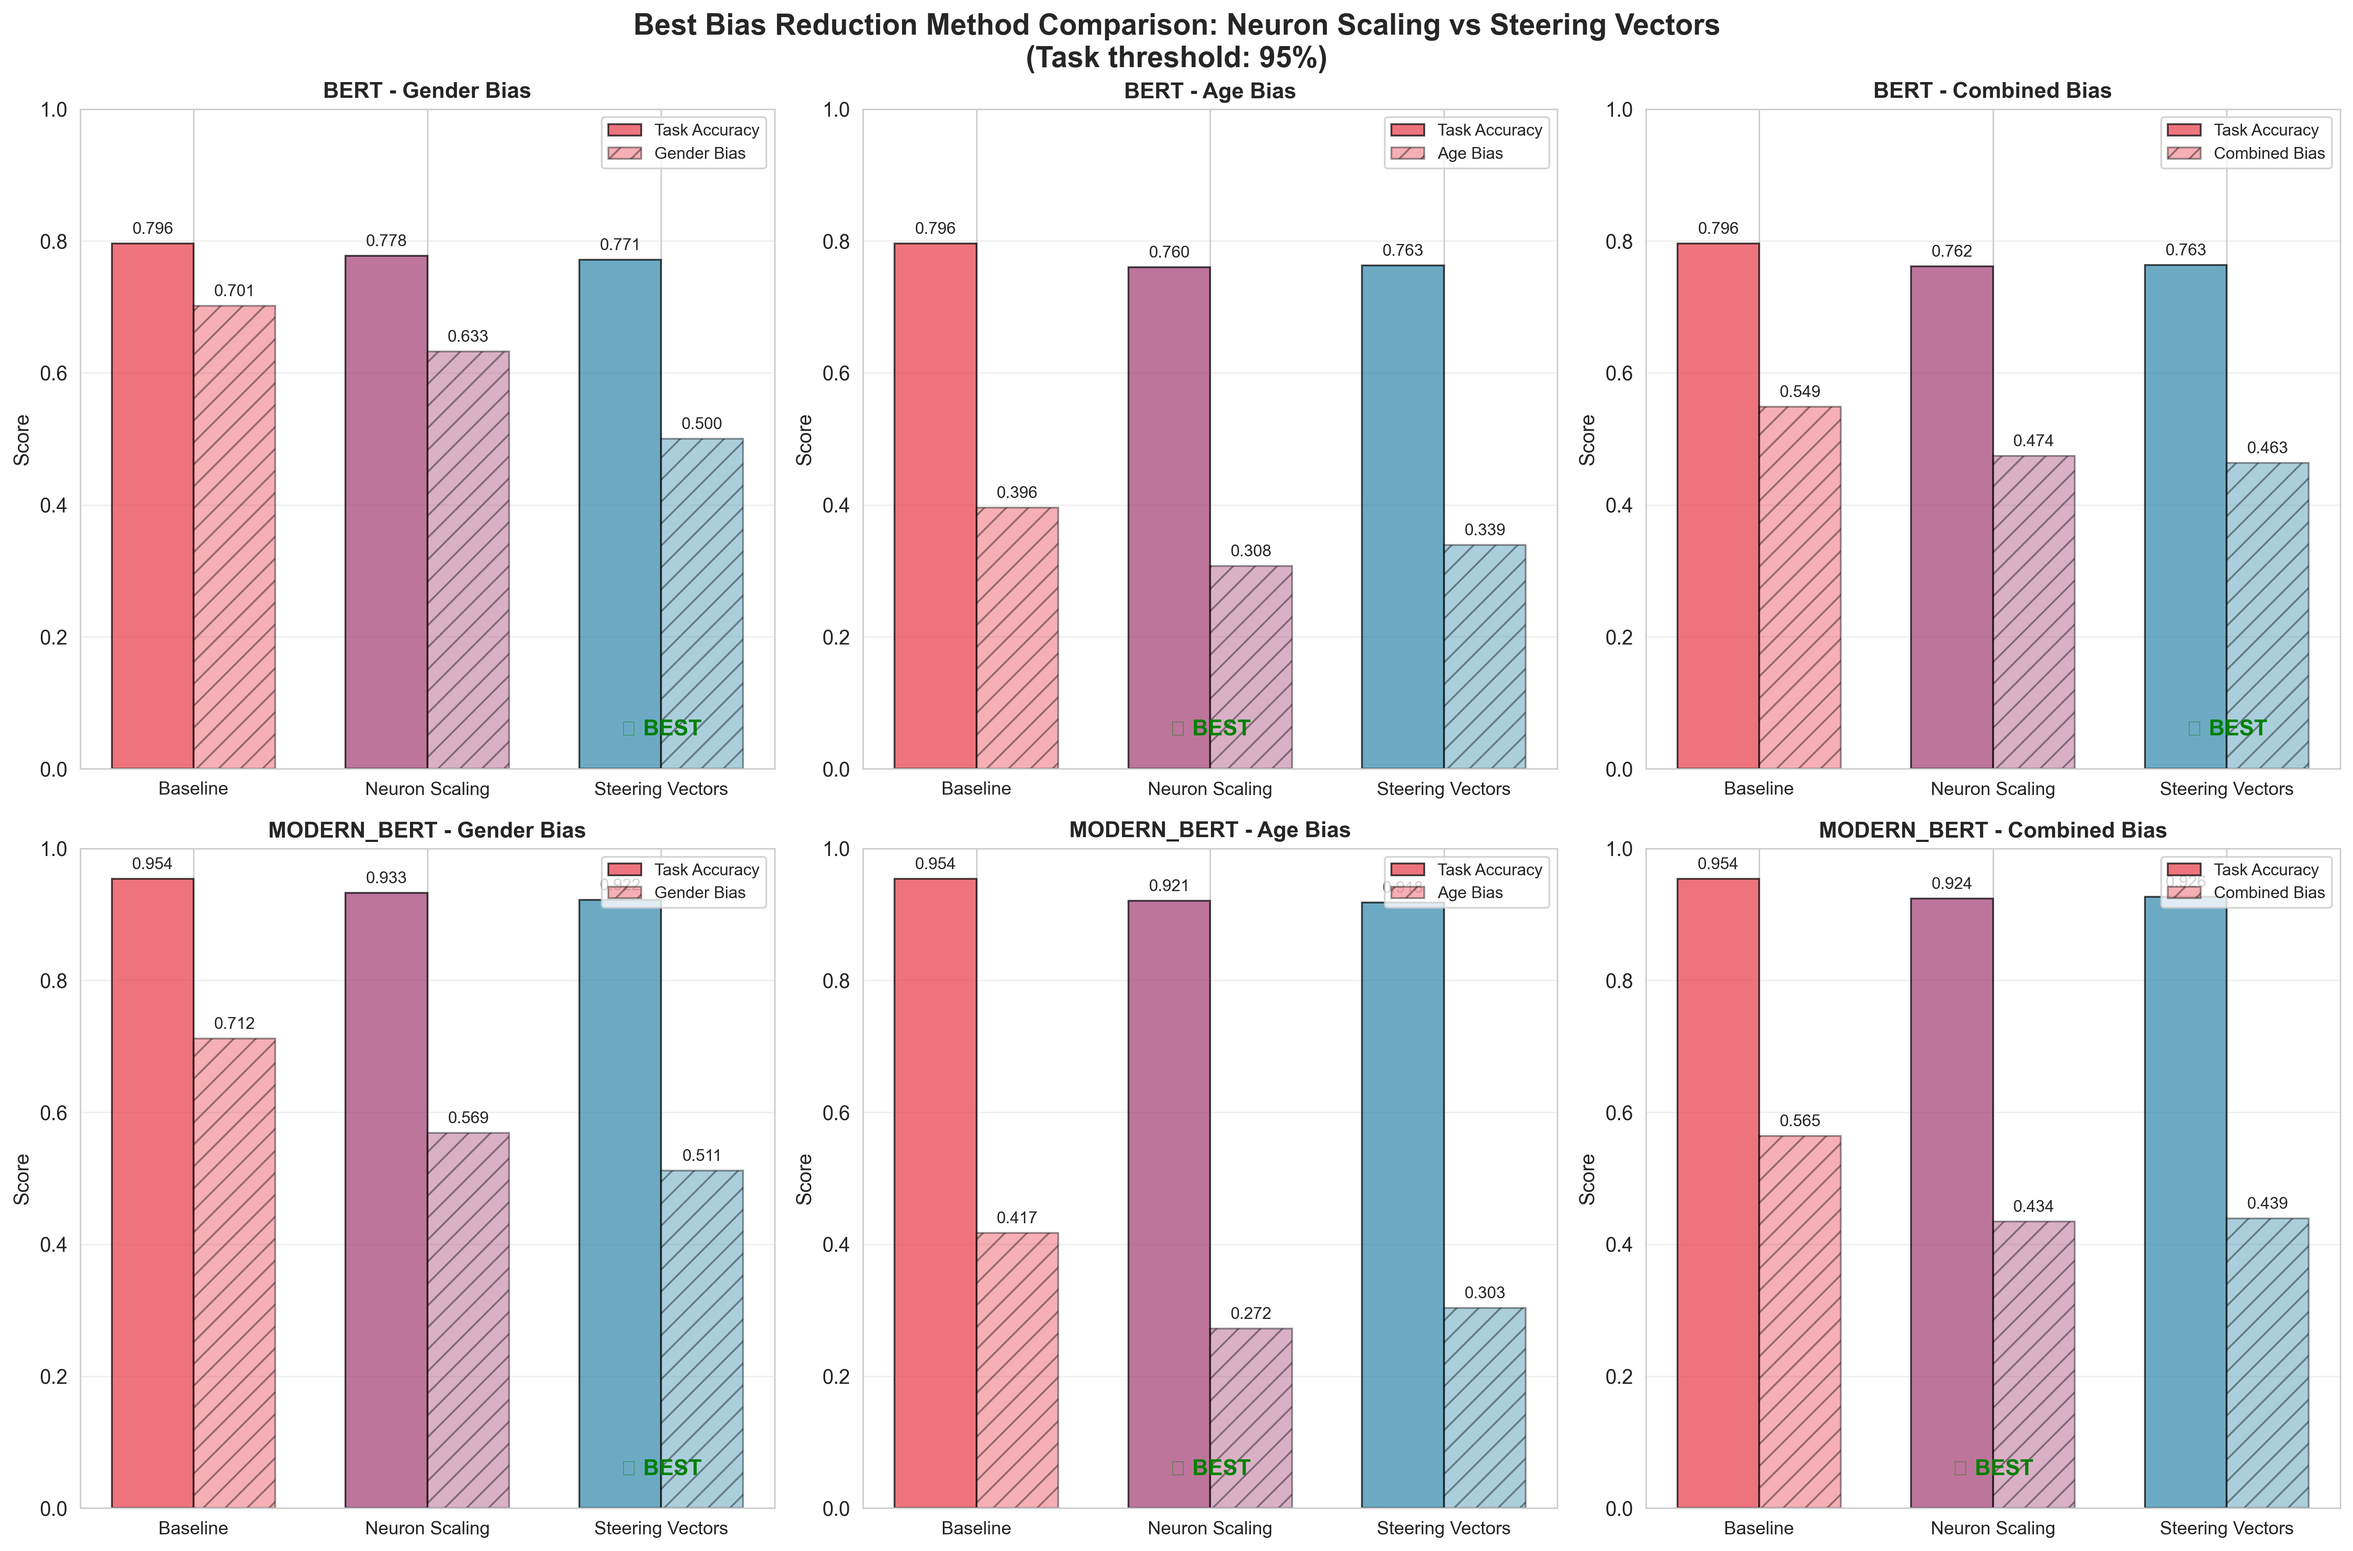
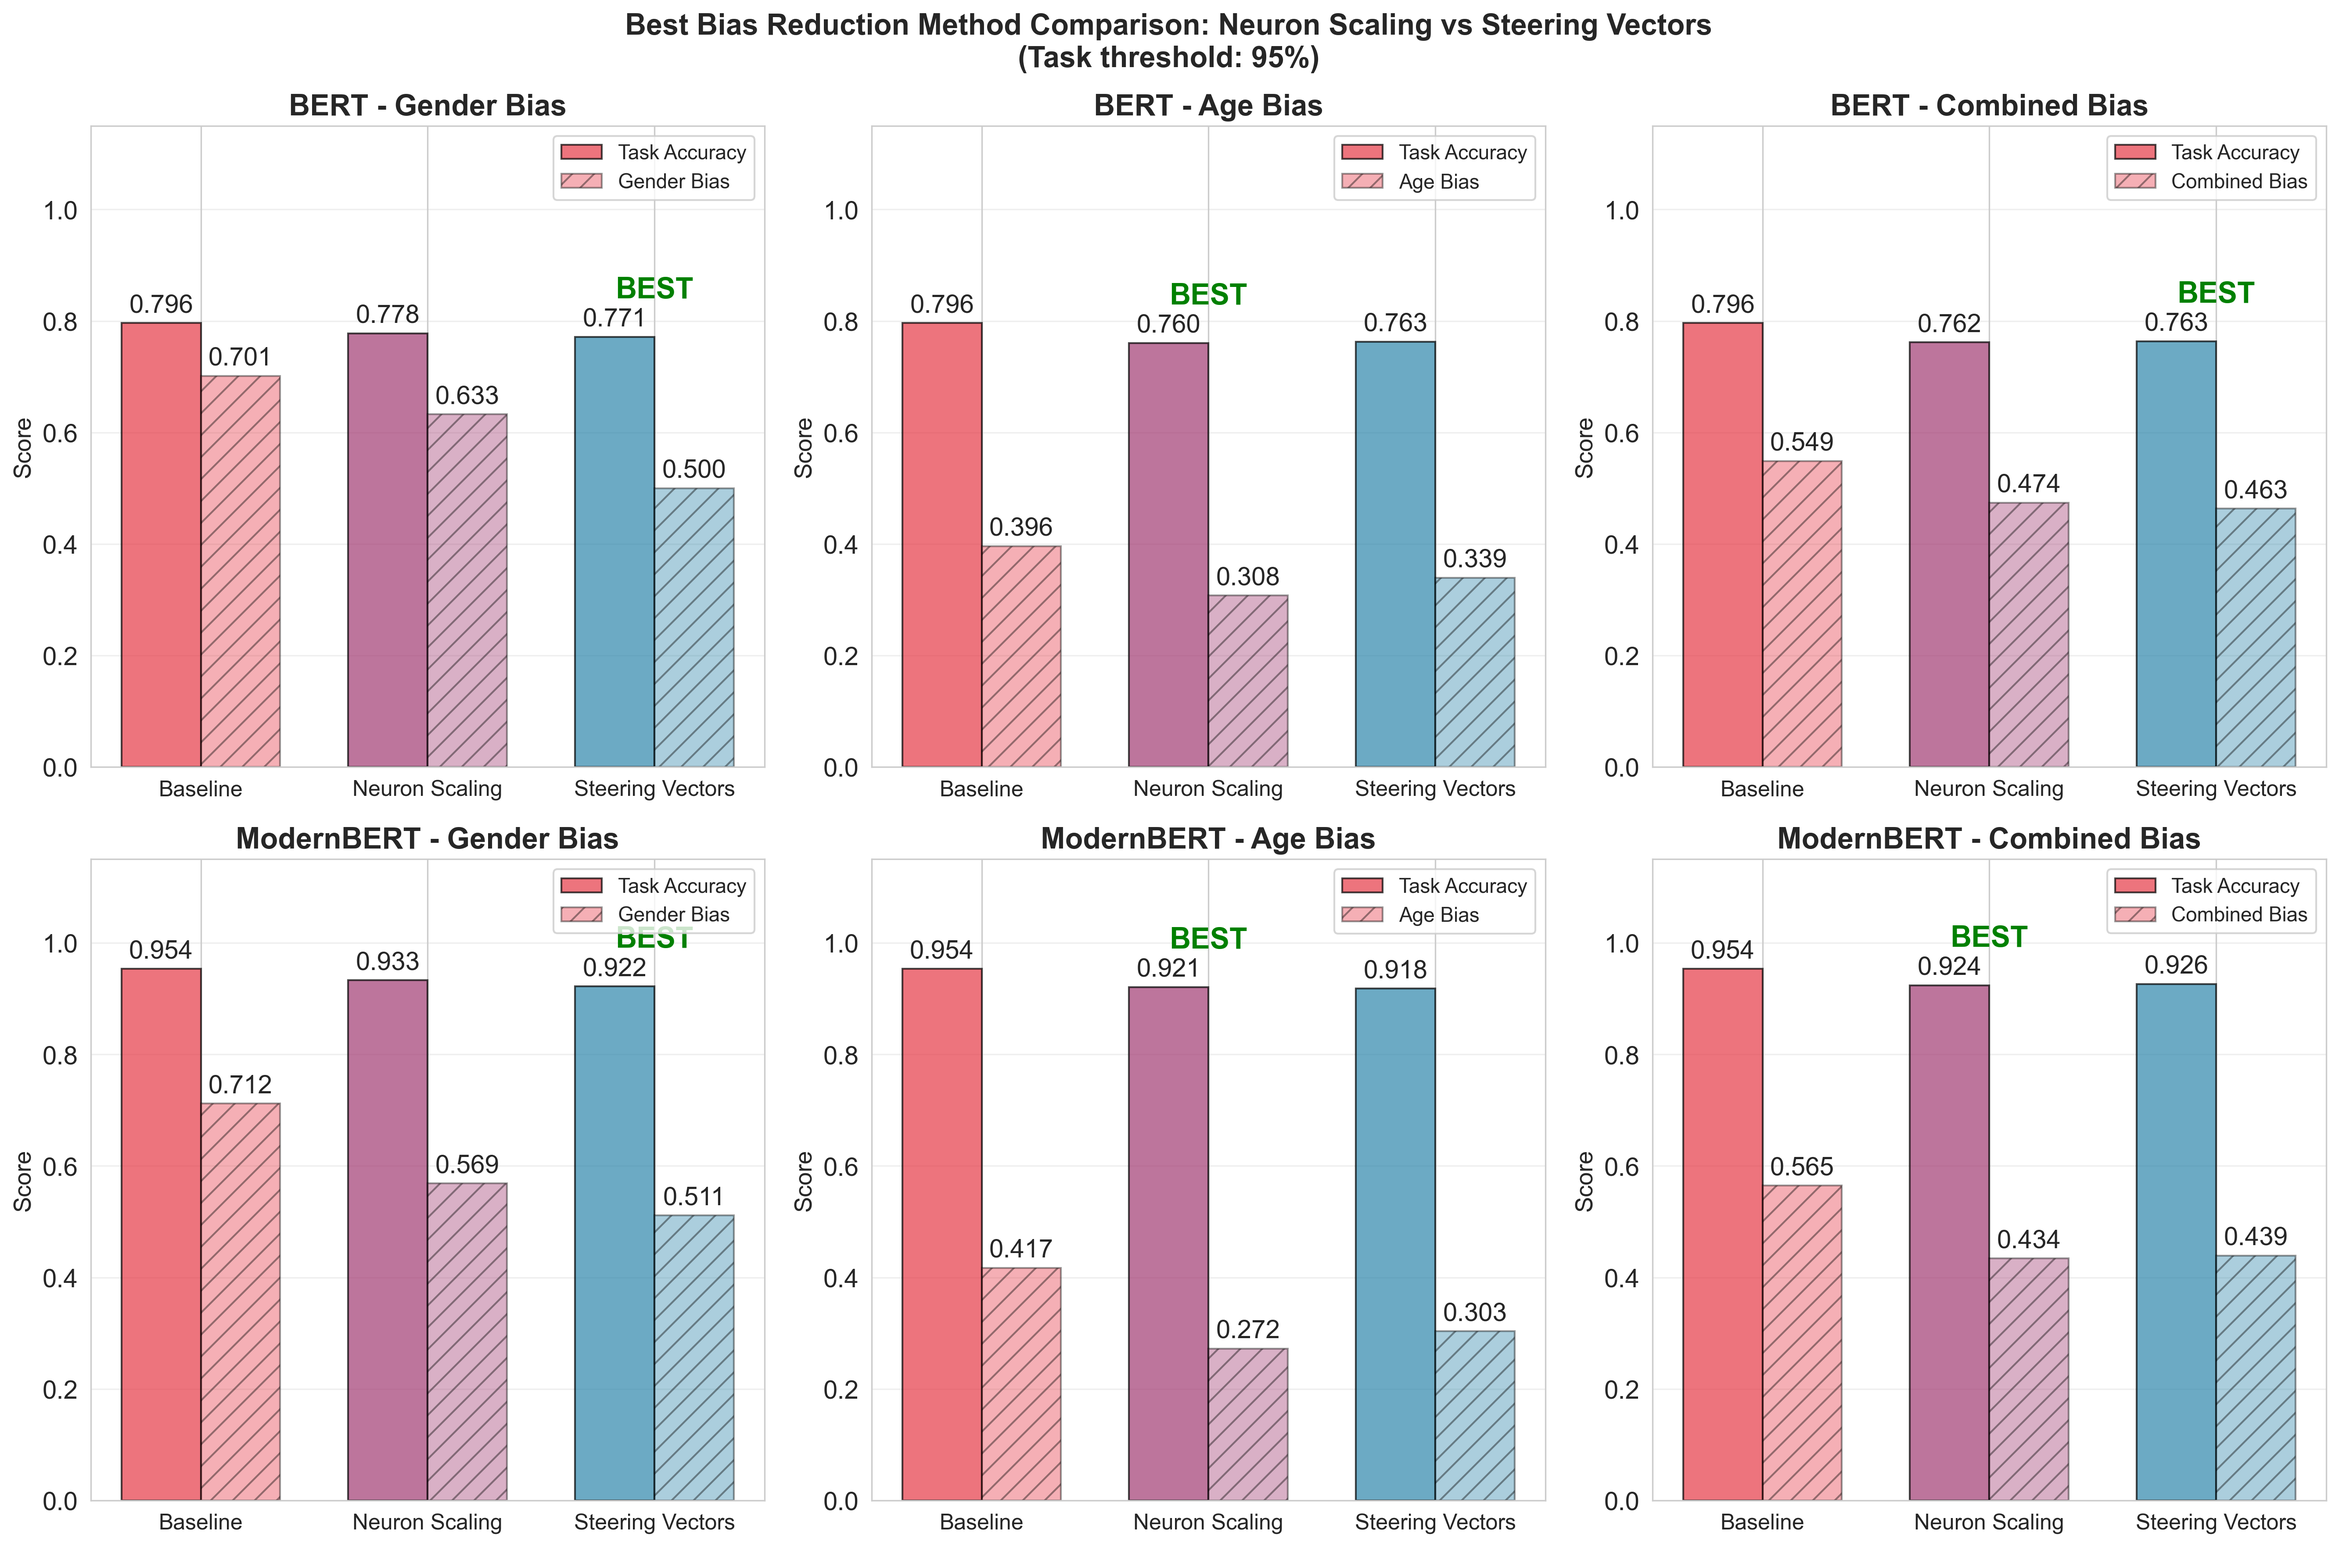
Enhance visualization settings and update plot titles for clarity in bias analysis

diff --git a/code/17_best_approach_analysis.py b/code/17_best_approach_analysis.py
@@ -8,9 +8,10 @@ from utils.paths import PROJECT_ROOT
 # Configuration
 sns.set_style("whitegrid")
 plt.rcParams['figure.figsize'] = (14, 10)
-plt.rcParams['font.size'] = 11
+plt.rcParams['font.size'] = 14
 
 MODELS = ['bert', 'modern_bert']
+MODEL_DISPLAY_NAMES = {'bert': 'BERT', 'modern_bert': 'ModernBERT'}
 BIAS_TYPES = ['gender', 'age', 'combined']
 
 # Thresholds for valid configurations
@@ -26,7 +27,7 @@ COLORS = {
 
 def load_baseline(model_name, bias_type):
     """Load baseline results for the given model and bias type.
-    
+
     Note: Always uses three-head model baseline to ensure secondary bias metrics are available
     for cross-contamination analysis.
     """
@@ -159,8 +160,7 @@ def select_best_config(configs, baseline, bias_type):
 
     # Filter by secondary constraint (if applicable): secondary_bias <= baseline_secondary + EPSILON
     if baseline_secondary is not None:
-        valid_configs = [config for config in valid_configs 
-                        if get_secondary(config) <= baseline_secondary + SECONDARY_EPSILON]
+        valid_configs = [config for config in valid_configs if get_secondary(config) <= baseline_secondary + SECONDARY_EPSILON]
 
     if not valid_configs:
         # Fallback: return config with minimum task drop
@@ -378,24 +378,26 @@ def plot_comparison(all_results, output_dir):
             for bar, val in zip(bars1, task_accs):
                 if val > 0:
                     ax.text(bar.get_x() + bar.get_width()/2, bar.get_height() + 0.01,
-                            f'{val:.3f}', ha='center', va='bottom', fontsize=9)
+                            f'{val:.3f}', ha='center', va='bottom', fontsize=14)
             for bar, val in zip(bars2, primary_biases):
                 if val > 0:
                     ax.text(bar.get_x() + bar.get_width()/2, bar.get_height() + 0.01,
-                            f'{val:.3f}', ha='center', va='bottom', fontsize=9)
+                            f'{val:.3f}', ha='center', va='bottom', fontsize=14)
 
             # Mark winner
             if result['winner']:
                 winner_idx = 1 if result['winner'] == 'neuron_scaling' else 2
-                ax.annotate('★ BEST', xy=(winner_idx, 0.05), fontsize=12, color='green',
+                # Position BEST above the highest bar value at winner position
+                winner_height = max(task_accs[winner_idx], primary_biases[winner_idx])
+                ax.annotate('BEST', xy=(winner_idx, winner_height + 0.07), fontsize=16, color='green',
                             weight='bold', ha='center')
 
-            ax.set_ylabel('Score', fontsize=11)
-            ax.set_title(f'{model.upper()} - {bias_type.capitalize()} Bias', fontsize=12, weight='bold')
+            ax.set_ylabel('Score', fontsize=13)
+            ax.set_title(f'{MODEL_DISPLAY_NAMES[model]} - {bias_type.capitalize()} Bias', fontsize=16, weight='bold')
             ax.set_xticks(x)
-            ax.set_xticklabels(methods, fontsize=10)
-            ax.legend(loc='upper right', fontsize=9)
-            ax.set_ylim([0, 1.0])
+            ax.set_xticklabels(methods, fontsize=12)
+            ax.legend(loc='upper right', fontsize=11)
+            ax.set_ylim([0, 1.15])
             ax.grid(True, alpha=0.3, axis='y')
 
     plt.tight_layout()
@@ -438,16 +440,16 @@ def plot_comparison(all_results, output_dir):
         # Add value labels
         for bar, val in zip(bars1, neuron_reductions):
             ax.text(bar.get_width() + 0.5, bar.get_y() + bar.get_height()/2,
-                    f'{val:.1f}%', ha='left', va='center', fontsize=10, weight='bold')
+                    f'{val:.1f}%', ha='left', va='center', fontsize=16, weight='bold')
         for bar, val in zip(bars2, steering_reductions):
             ax.text(bar.get_width() + 0.5, bar.get_y() + bar.get_height()/2,
-                    f'{val:.1f}%', ha='left', va='center', fontsize=10, weight='bold')
+                    f'{val:.1f}%', ha='left', va='center', fontsize=16, weight='bold')
 
-        ax.set_xlabel('Bias Reduction (%)', fontsize=12, weight='bold')
-        ax.set_title(f'{model.upper()}', fontsize=14, weight='bold')
+        ax.set_xlabel('Bias Reduction (%)', fontsize=16, weight='bold')
+        ax.set_title(f'{MODEL_DISPLAY_NAMES[model]}', fontsize=18, weight='bold')
         ax.set_yticks(y)
-        ax.set_yticklabels(labels, fontsize=11)
-        ax.legend(loc='lower right', fontsize=10)
+        ax.set_yticklabels(labels, fontsize=16)
+        ax.legend(loc='lower right', fontsize=14)
         ax.grid(True, alpha=0.3, axis='x')
         ax.set_xlim([0, max(max(neuron_reductions), max(steering_reductions)) * 1.2 + 5])
 
@@ -463,7 +465,7 @@ def plot_comparison(all_results, output_dir):
 
 def plot_cross_contamination(all_results, output_dir):
     """Create cross-contamination analysis plot showing how primary bias mitigation affects secondary bias."""
-    
+
     fig, axes = plt.subplots(2, 2, figsize=(16, 12))
     fig.suptitle('Cross-Contamination Analysis: Impact on Secondary Bias\n'
                  'Shows how mitigating primary bias affects non-targeted (secondary) bias',
@@ -473,92 +475,92 @@ def plot_cross_contamination(all_results, output_dir):
         # Gender mitigation → Age bias effect
         ax_gender = axes[i, 0]
         result_gender = all_results[model]['gender']
-        
+
         methods = ['Baseline']
         age_biases = [result_gender['baseline']['age_balanced_accuracy'] or 0]
         colors_list = [COLORS['baseline']]
         labels_list = ['Baseline']
-        
+
         if result_gender['neuron_scaling'] and result_gender['neuron_scaling']['age_balanced_accuracy'] is not None:
             methods.append('Neuron\nScaling')
             age_biases.append(result_gender['neuron_scaling']['age_balanced_accuracy'])
             colors_list.append(COLORS['neuron_scaling'])
             labels_list.append('Neuron Scaling')
-        
+
         if result_gender['steering'] and result_gender['steering']['age_balanced_accuracy'] is not None:
             methods.append('Steering\nVectors')
             age_biases.append(result_gender['steering']['age_balanced_accuracy'])
             colors_list.append(COLORS['steering'])
             labels_list.append('Steering')
-        
+
         x = np.arange(len(methods))
         bars = ax_gender.bar(x, age_biases, color=colors_list, alpha=0.7, edgecolor='black', width=0.6)
-        
+
         # Add value labels and change indicators
         baseline_age = result_gender['baseline']['age_balanced_accuracy'] or 0
         for idx, (bar, val) in enumerate(zip(bars, age_biases)):
             ax_gender.text(bar.get_x() + bar.get_width()/2, bar.get_height() + 0.01,
-                          f'{val:.3f}', ha='center', va='bottom', fontsize=10, weight='bold')
+                           f'{val:.3f}', ha='center', va='bottom', fontsize=16, weight='bold')
             if idx > 0 and baseline_age > 0:
                 change = val - baseline_age
                 change_pct = (change / baseline_age) * 100
                 color = 'red' if change > 0.01 else 'green' if change < -0.01 else 'gray'
                 ax_gender.text(bar.get_x() + bar.get_width()/2, 0.05,
-                              f'{change:+.3f}\n({change_pct:+.1f}%)',
-                              ha='center', va='bottom', fontsize=9, color=color, weight='bold')
-        
-        ax_gender.set_ylabel('Age Bias (Balanced Accuracy)', fontsize=11, weight='bold')
-        ax_gender.set_title(f'{model.upper()}: Gender Mitigation → Age Bias Effect', fontsize=12, weight='bold')
+                               f'{change:+.3f}\n({change_pct:+.1f}%)',
+                               ha='center', va='bottom', fontsize=16, color=color, weight='bold')
+
+        ax_gender.set_ylabel('Age Bias (Balanced Accuracy)', fontsize=16, weight='bold')
+        ax_gender.set_title(f'{MODEL_DISPLAY_NAMES[model]}: Gender Mitigation → Age Bias Effect', fontsize=14, weight='bold')
         ax_gender.set_xticks(x)
-        ax_gender.set_xticklabels(methods, fontsize=10)
+        ax_gender.set_xticklabels(methods, fontsize=14)
         ax_gender.set_ylim([0, max(age_biases) * 1.3 if age_biases else 1.0])
         ax_gender.grid(True, alpha=0.3, axis='y')
         ax_gender.axhline(y=baseline_age, color='red', linestyle='--', linewidth=2, alpha=0.5, label='Baseline')
-        ax_gender.legend(loc='upper right', fontsize=9)
-        
+        ax_gender.legend(loc='upper right', fontsize=14)
+
         # Age mitigation → Gender bias effect
         ax_age = axes[i, 1]
         result_age = all_results[model]['age']
-        
+
         methods = ['Baseline']
         gender_biases = [result_age['baseline']['gender_balanced_accuracy'] or 0]
         colors_list = [COLORS['baseline']]
-        
+
         if result_age['neuron_scaling'] and result_age['neuron_scaling']['gender_balanced_accuracy'] is not None:
             methods.append('Neuron\nScaling')
             gender_biases.append(result_age['neuron_scaling']['gender_balanced_accuracy'])
             colors_list.append(COLORS['neuron_scaling'])
-        
+
         if result_age['steering'] and result_age['steering']['gender_balanced_accuracy'] is not None:
             methods.append('Steering\nVectors')
             gender_biases.append(result_age['steering']['gender_balanced_accuracy'])
             colors_list.append(COLORS['steering'])
-        
+
         x = np.arange(len(methods))
         bars = ax_age.bar(x, gender_biases, color=colors_list, alpha=0.7, edgecolor='black', width=0.6)
-        
+
         # Add value labels and change indicators
         baseline_gender = result_age['baseline']['gender_balanced_accuracy'] or 0
         for idx, (bar, val) in enumerate(zip(bars, gender_biases)):
             ax_age.text(bar.get_x() + bar.get_width()/2, bar.get_height() + 0.01,
-                       f'{val:.3f}', ha='center', va='bottom', fontsize=10, weight='bold')
+                        f'{val:.3f}', ha='center', va='bottom', fontsize=16, weight='bold')
             if idx > 0 and baseline_gender > 0:
                 change = val - baseline_gender
                 change_pct = (change / baseline_gender) * 100
                 color = 'red' if change > 0.01 else 'green' if change < -0.01 else 'gray'
                 ax_age.text(bar.get_x() + bar.get_width()/2, 0.05,
-                           f'{change:+.3f}\n({change_pct:+.1f}%)',
-                           ha='center', va='bottom', fontsize=9, color=color, weight='bold')
-        
-        ax_age.set_ylabel('Gender Bias (Balanced Accuracy)', fontsize=11, weight='bold')
-        ax_age.set_title(f'{model.upper()}: Age Mitigation → Gender Bias Effect', fontsize=12, weight='bold')
+                            f'{change:+.3f}\n({change_pct:+.1f}%)',
+                            ha='center', va='bottom', fontsize=14, color=color, weight='bold')
+
+        ax_age.set_ylabel('Gender Bias (Balanced Accuracy)', fontsize=13, weight='bold')
+        ax_age.set_title(f'{MODEL_DISPLAY_NAMES[model]}: Age Mitigation → Gender Bias Effect', fontsize=14, weight='bold')
         ax_age.set_xticks(x)
-        ax_age.set_xticklabels(methods, fontsize=10)
+        ax_age.set_xticklabels(methods, fontsize=14)
         ax_age.set_ylim([0, max(gender_biases) * 1.3 if gender_biases else 1.0])
         ax_age.grid(True, alpha=0.3, axis='y')
         ax_age.axhline(y=baseline_gender, color='red', linestyle='--', linewidth=2, alpha=0.5, label='Baseline')
-        ax_age.legend(loc='upper right', fontsize=9)
-    
+        ax_age.legend(loc='upper right', fontsize=14)
+
     plt.tight_layout()
     plt.savefig(output_dir / 'cross_contamination_analysis.png', dpi=300, bbox_inches='tight')
     plt.close()
@@ -606,7 +608,7 @@ def print_summary(all_results):
                       f"(drop: {ns['task_drop_pct']:.2f}%)")
                 print(f"    Primary Bias: {ns['primary_bias']:.4f} "
                       f"(reduction: {ns['primary_reduction_pct']:.2f}%)")
-                
+
                 # Secondary bias info
                 if bias_type == 'gender' and ns['age_balanced_accuracy'] is not None:
                     baseline_age = baseline['age_balanced_accuracy']
@@ -635,7 +637,7 @@ def print_summary(all_results):
                       f"(drop: {sv['task_drop_pct']:.2f}%)")
                 print(f"    Primary Bias: {sv['primary_bias']:.4f} "
                       f"(reduction: {sv['primary_reduction_pct']:.2f}%)")
-                
+
                 # Secondary bias info
                 if bias_type == 'gender' and sv['age_balanced_accuracy'] is not None:
                     baseline_age = baseline['age_balanced_accuracy']
